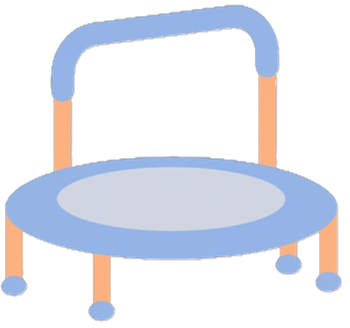
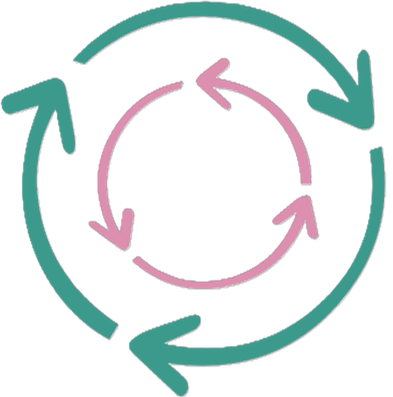
added images and a bit of content

diff --git a/src/screens/InsightsScreen.js b/src/screens/InsightsScreen.js
@@ -11,8 +11,10 @@ import PolarAreaChart from '../insightComponents/PolarAreaChart';
 import PageHeader from '../components/PageHeader';
 import Colors from '../constants/Colors';
 import HeatMap from '../insightComponents/HeatMap';
+import { Ionicons } from '@expo/vector-icons'; // Added for placeholder icon
 
 const { width } = Dimensions.get('window');
+const logsRequired = 15;
 
 const InsightsScreen = () => {
   const insets = useSafeAreaInsets();
@@ -20,7 +22,9 @@ const InsightsScreen = () => {
     topStrategies: [],
     topLocations: [],
     totalLogs: 0,
+    heatMapData: null, // Initial state safety
   });
+  const [loading, setLoading] = useState(true); // Stop visual jumps while reading storage
 
   useFocusEffect(
     useCallback(() => {
@@ -31,12 +35,23 @@ const InsightsScreen = () => {
   const calculateInsights = async () => {
     try {
       const storedData = await AsyncStorage.getItem('@app_logs');
-      if (!storedData) return;
+      if (!storedData) {
+        setStats(prev => ({ ...prev, totalLogs: 0 }));
+        setLoading(false);
+        return;
+      }
       const logs = JSON.parse(storedData);
+
+      // If there are less than 10 logs, we don't need to do heavy data crunching yet
+      if (logs.length < logsRequired) {
+        setStats(prev => ({ ...prev, totalLogs: logs.length }));
+        setLoading(false);
+        return;
+      }
 
       // --- 1. TALLY STRATEGIES (Effective vs Not Effective) ---
       const strategyCounts = {};
-      const leastEffectiveCounts = {}; // New object for ineffective tools
+      const leastEffectiveCounts = {};
 
       logs.forEach(log => {
         Object.entries(log.strategies || {}).forEach(([name, status]) => {
@@ -55,7 +70,7 @@ const InsightsScreen = () => {
 
       const leastEffectiveStrategies = Object.entries(leastEffectiveCounts)
         .map(([name, count]) => ({ name, count }))
-        .sort((a, b) => b.count - a.count) // Sorting high-to-low to see what fails most often
+        .sort((a, b) => b.count - a.count)
         .slice(0, 5);
 
       // --- 2. TALLY LOCATIONS ---
@@ -101,23 +116,16 @@ const InsightsScreen = () => {
       }));
 
       // --- 4. HEATMAP LOGIC ---
-      // --- 4. HEATMAP LOGIC (Monday to Sunday) ---
       const times = ['Morning', 'Afternoon', 'Evening', 'Night time'];
-
-      // Initialize the matrix
       let heatMapMatrix = Array.from({ length: 7 }, (_, i) => ({
-        dayIndex: i, // 0 will now represent Monday
+        dayIndex: i,
         slots: times.map(t => ({ time: t, count: 0 })),
       }));
 
       logs.forEach(log => {
         const date = new Date(log.logDate);
-        const rawDay = date.getDay(); // Sun=0, Mon=1, Tue=2...
-
-        // SHIFT LOGIC:
-        // Convert Sun(0) to 6, and Mon(1) to 0, Tue(2) to 1, etc.
+        const rawDay = date.getDay();
         const mondayFirstIndex = rawDay === 0 ? 6 : rawDay - 1;
-
         const timeLabel = log.timeOfDay;
 
         if (timeLabel) {
@@ -135,15 +143,83 @@ const InsightsScreen = () => {
       // --- 5. UPDATE STATE (ONCE) ---
       setStats({
         topStrategies,
-        leastEffectiveStrategies, // Added this
+        leastEffectiveStrategies,
         topLocations,
         topTags,
         heatMapData: { matrix: heatMapMatrix, maxCount },
         totalLogs: logs.length,
       });
+      setLoading(false);
     } catch (e) {
       console.error('Error calculating insights:', e);
+      setLoading(false);
     }
+  };
+
+  // Render function helper to keep code clean
+  const renderContent = () => {
+    if (loading) {
+      return (
+        <View style={styles.centerStage}>
+          <Text style={{ color: '#999' }}>Loading logs...</Text>
+        </View>
+      );
+    }
+
+    // --- LOCK SCREEN COVER LAYOUT ---
+    if (stats.totalLogs < logsRequired) {
+      const remaining = logsRequired - stats.totalLogs;
+      const progressPercent = (stats.totalLogs / logsRequired) * 100;
+
+      return (
+        <View style={styles.lockContainer}>
+          <View style={styles.lockCard}>
+            <View style={styles.iconCircle}>
+              <Ionicons name="lock-closed" size={32} color="#007AFF" />
+            </View>
+
+            <Text style={styles.lockTitle}>Almost There</Text>
+            <Text style={styles.lockSubtitle}>
+              Once you've added {logsRequired} logs, your Trend Tracker will
+              reveal helpful patterns and insights.
+            </Text>
+
+            {/* Custom Dynamic Progress Bar */}
+            <View style={styles.progressBarBg}>
+              <View
+                style={[
+                  styles.progressBarFill,
+                  { width: `${progressPercent}%` },
+                ]}
+              />
+            </View>
+
+            <Text style={styles.progressText}>
+              {stats.totalLogs} / {logsRequired} Logs Filled • {remaining} more
+              to go!
+            </Text>
+          </View>
+        </View>
+      );
+    }
+
+    // --- FULL CHARTS VISIBLE SECTION ---
+    return (
+      <ScrollView style={[styles.innerScroll]}>
+        <TotalIncidents count={stats.totalLogs} />
+        <HeatMap data={stats.heatMapData} />
+        <EffectiveTools
+          strategies={stats.topStrategies}
+          totalLogs={stats.totalLogs}
+        />
+        <LeastEffectiveTools
+          strategies={stats.leastEffectiveStrategies}
+          totalLogs={stats.totalLogs}
+        />
+        <Locations topLocations={stats.topLocations} />
+        <PolarAreaChart tags={stats.topTags} />
+      </ScrollView>
+    );
   };
 
   return (
@@ -156,33 +232,81 @@ const InsightsScreen = () => {
         title={'Trend Tracker'}
         iconName={'sparkles-outline'}
         iconColor={'#000000'}
-        accentColor={Colors.trend_theme}></PageHeader>
-
-      <ScrollView style={[styles.container]}>
-        <TotalIncidents count={stats.totalLogs} />
-
-        <HeatMap data={stats.heatMapData} />
-
-        <EffectiveTools
-          strategies={stats.topStrategies}
-          totalLogs={stats.totalLogs}
-        />
-
-        <LeastEffectiveTools
-          strategies={stats.leastEffectiveStrategies}
-          totalLogs={stats.totalLogs}
-        />
-
-        <Locations topLocations={stats.topLocations} />
-
-        <PolarAreaChart tags={stats.topTags} />
-      </ScrollView>
+        accentColor={Colors.trend_theme}
+      />
+      {renderContent()}
     </View>
   );
 };
 
 const styles = StyleSheet.create({
-  container: { flex: 1, backgroundColor: Colors.background, padding: 10 },
+  container: { flex: 1, backgroundColor: Colors.background },
+  innerScroll: { flex: 1, padding: 10 },
+  centerStage: { flex: 1, justifyContent: 'center', alignItems: 'center' },
+
+  // Lock Screen Formatting
+  lockContainer: {
+    flex: 1,
+    justifyContent: 'center',
+    alignItems: 'center',
+    padding: 24,
+  },
+  lockCard: {
+    backgroundColor: '#fff',
+    borderRadius: 20,
+    padding: 30,
+    width: '100%',
+    alignItems: 'center',
+    elevation: 4,
+    shadowColor: '#000',
+    shadowOffset: { width: 0, height: 4 },
+    shadowOpacity: 0.1,
+    shadowRadius: 8,
+  },
+  iconCircle: {
+    width: 70,
+    height: 70,
+    borderRadius: 35,
+    backgroundColor: '#E3F2FD',
+    justifyContent: 'center',
+    alignItems: 'center',
+    marginBottom: 20,
+  },
+  lockTitle: {
+    fontSize: 20,
+    fontWeight: '700',
+    color: '#333',
+    marginBottom: 10,
+    textAlign: 'center',
+  },
+  lockSubtitle: {
+    fontSize: 13,
+    color: '#666',
+    textAlign: 'center',
+    lineHeight: 20,
+    marginBottom: 25,
+    paddingHorizontal: 10,
+  },
+  progressBarBg: {
+    width: '100%',
+    height: 10,
+    backgroundColor: '#EEEEEE',
+    borderRadius: 5,
+    overflow: 'hidden',
+    marginBottom: 12,
+  },
+  progressBarFill: {
+    height: '100%',
+    backgroundColor: '#007AFF',
+    borderRadius: 5,
+  },
+  progressText: {
+    fontSize: 11,
+    fontWeight: '700',
+    color: '#999',
+    textTransform: 'uppercase',
+    letterSpacing: 0.5,
+  },
 });
 
 export default InsightsScreen;

diff --git a/src/insightComponents/PolarAreaChart.js b/src/insightComponents/PolarAreaChart.js
@@ -26,23 +26,43 @@ const PolarAreaChart = ({ tags }) => {
   const maxCount = Math.max(...tags.map(t => t.count), 1);
   const angleStep = (2 * Math.PI) / tags.length;
 
+  // const rainbow = [
+  //   '#FF6384',
+  //   '#FF9F40',
+  //   '#FFCD56',
+  //   '#4BC0C0',
+  //   '#36A2EB',
+  //   '#c0a4f7',
+  //   '#734292',
+  // ];
+
+  // const rainbowDark = [
+  //   '#C62828',
+  //   '#E65100',
+  //   '#FBC02D',
+  //   '#00796B',
+  //   '#1976D2',
+  //   '#6d28f7',
+  //   '#3f0464',
+  // ];
   const rainbow = [
-    '#FF6384',
-    '#FF9F40',
-    '#FFCD56',
-    '#4BC0C0',
-    '#36A2EB',
-    '#c0a4f7',
-    '#734292',
+    '#FFB3BA', // Pastel Pink
+    '#FFDFBA', // Pastel Orange
+    '#FFFFBA', // Pastel Yellow
+    '#BAFFC9', // Pastel Mint Green
+    '#BAE1FF', // Pastel Sky Blue
+    '#D6C2FE', // Pastel Lavender
+    '#F1C0FB', // Pastel Orchid
   ];
+
   const rainbowDark = [
-    '#C62828',
-    '#E65100',
-    '#FBC02D',
-    '#00796B',
-    '#1976D2',
-    '#6d28f7',
-    '#3f0464',
+    '#FF6B8B', // Medium Coral Pink
+    '#FFA15A', // Medium Soft Orange
+    '#FFD573', // Medium Warm Yellow
+    '#64D2D2', // Medium Soft Teal
+    '#5EB5EF', // Medium Soft Blue
+    '#A37FFA', // Medium Bright Purple
+    '#C882E6', // Medium Soft Magenta/Violet
   ];
 
   const createWedgePath = (startAngle, endAngle, currentRadius) => {

diff --git a/src/screens/InformationScreen.js b/src/screens/InformationScreen.js
@@ -15,18 +15,28 @@ import PageHeader from '../components/PageHeader';
 import textContent from '../../CMS/content.json';
 
 const imageMap = {
+  whatCanThisAppDo: require('../../assets/infoCardPics/whatCanThisAppDo.png'),
   execFunction: require('../../assets/infoCardPics/execFunction.png'),
   howToUseAppInfo: require('../../assets/infoCardPics/howToUseAppInfo.png'),
+  captureMoment: require('../../assets/infoCardPics/captureMoment.png'),
+  howToUseJournal: require('../../assets/infoCardPics/howToUseJournal.png'),
+  howToUseJournal2: require('../../assets/infoCardPics/howToUseJournal2.png'),
+  trends: require('../../assets/infoCardPics/trends.png'),
+  whatAreObvsCatogories: require('../../assets/infoCardPics/whatAreObvsCatogories.png'),
   communicationInfo: require('../../assets/infoCardPics/communicationInfo.png'),
   routineInfo: require('../../assets/infoCardPics/routineInfo.png'),
+  socialInteraction: require('../../assets/infoCardPics/socialInteraction.png'),
   sensoryInfo: require('../../assets/infoCardPics/sensoryInfo.png'),
   regulationSupport: require('../../assets/infoCardPics/regulationSupport.png'),
   communicationSupport: require('../../assets/infoCardPics/communicationSupport.png'),
+
+  emotionalRegulation: require('../../assets/infoCardPics/emotionalRegulation.png'),
   sensorySupport: require('../../assets/infoCardPics/sensorySupport.png'),
   socialInteractionSupport: require('../../assets/infoCardPics/socialInteractionSupport.png'),
   environmentSupport: require('../../assets/infoCardPics/environmentSupport.png'),
   maskingSupport: require('../../assets/infoCardPics/maskingSupport.png'),
   structureSupport: require('../../assets/infoCardPics/structureSupport.png'),
+  execFunctionSupports: require('../../assets/infoCardPics/execFunctionSupports.png'),
   noteParentsSupport: require('../../assets/infoCardPics/noteParentsSupport.png'),
 };
 

diff --git a/src/insightComponents/HeatMap.js b/src/insightComponents/HeatMap.js
@@ -3,7 +3,7 @@ import { View, Text, StyleSheet, Dimensions } from 'react-native';
 import InsightCard from './InsightCard';
 
 const { width } = Dimensions.get('window');
-const COLUMN_WIDTH = (width - 66) / 8; // Accounts for labels and padding
+const COLUMN_WIDTH = (width - 86) / 9; // Accounts for labels and padding
 
 const HeatMap = ({ data }) => {
   if (!data) return null;
@@ -100,15 +100,15 @@ const styles = StyleSheet.create({
   gridContainer: { flexDirection: 'row' },
   yAxis: {
     justifyContent: 'space-between',
-    paddingVertical: 25,
-    marginRight: 5,
+    paddingVertical: 20,
+    marginRight: 8,
   },
   axisLabel: { fontSize: 10, color: '#999', fontWeight: 'bold' },
   grid: { flex: 1 },
   row: {
     flexDirection: 'row',
     justifyContent: 'space-between',
-    marginBottom: 4,
+    marginBottom: 2,
   },
   cell: {
     width: COLUMN_WIDTH,

diff --git a/src/screens/ReportingScreen.js b/src/screens/ReportingScreen.js
@@ -32,8 +32,8 @@ const ReportingScreen = ({ navigation }) => {
       const parsedExisting = existingData ? JSON.parse(existingData) : [];
 
       // 2. Combine them
-      const newData = [...parsedExisting, ...sampleData];
-      // const newData = [...sampleData];
+      //const newData = [...parsedExisting, ...sampleData];
+      const newData = [...sampleData];
 
       // 3. Save back to storage
       await AsyncStorage.setItem('@app_logs', JSON.stringify(newData));